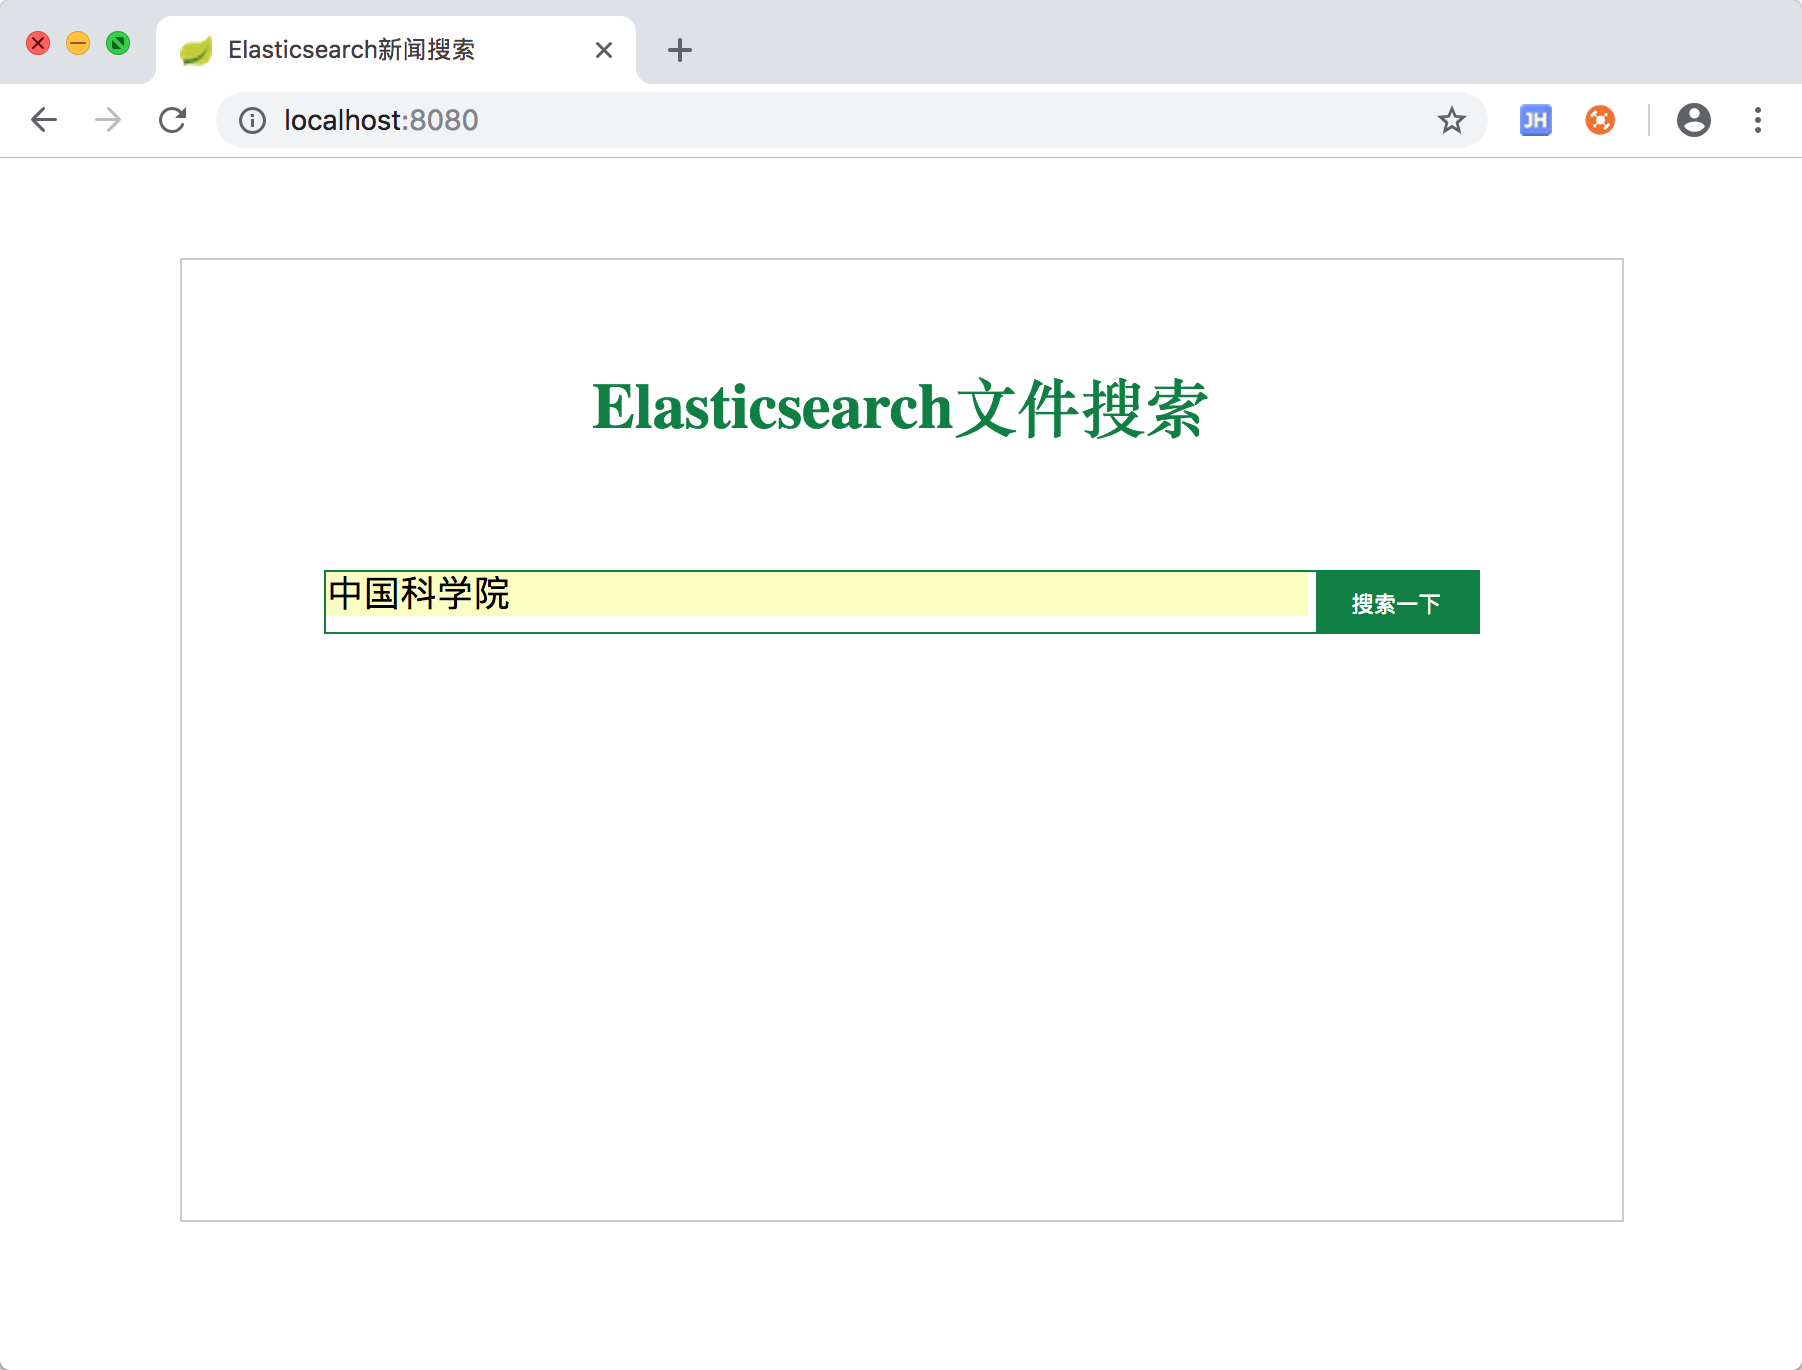
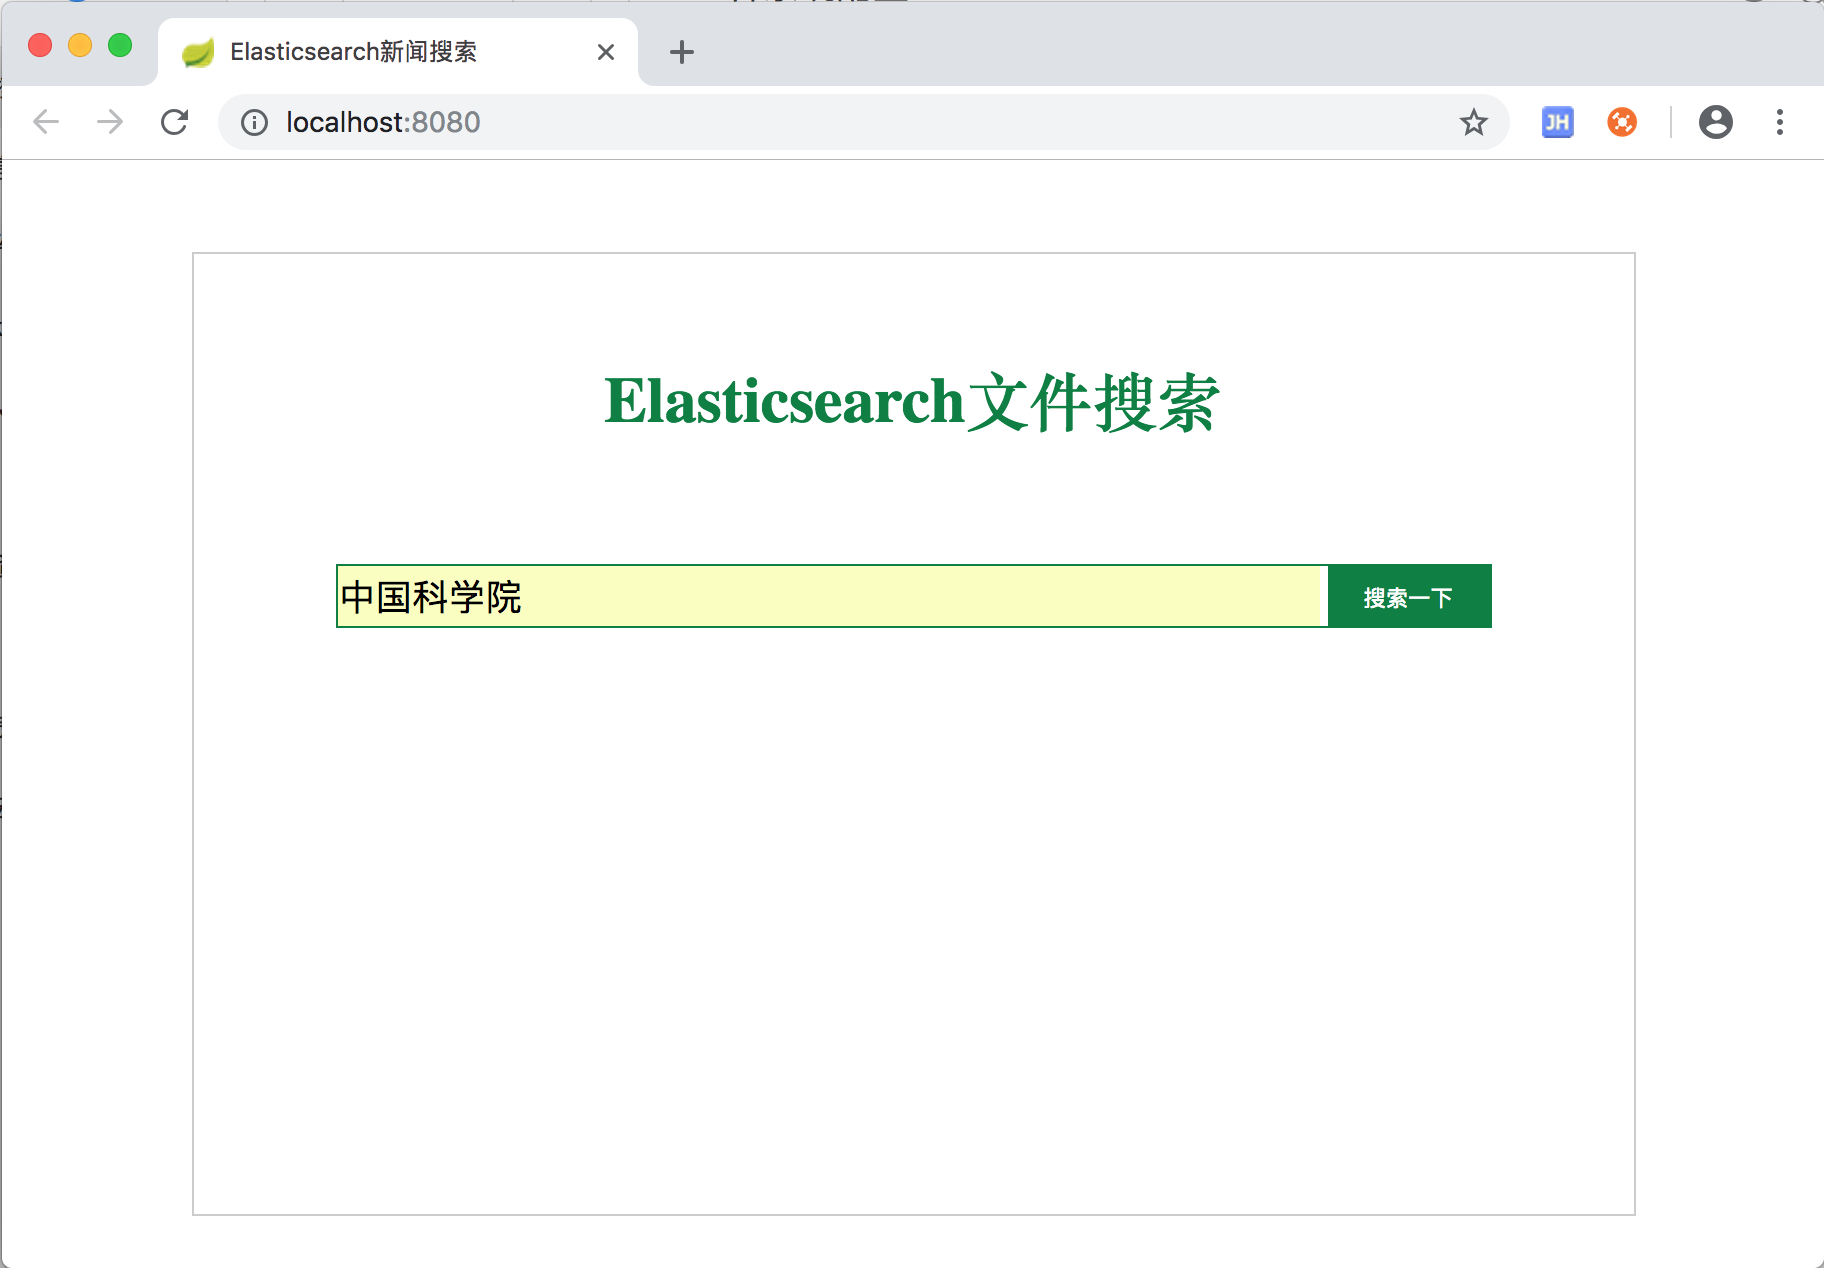
make it better

diff --git a/src/main/resources/static/css/index.css b/src/main/resources/static/css/index.css
@@ -25,7 +25,7 @@ body{
 
 
 .searchbox input[type="text"]{
-    height: 20px;
+    height: 28px;
     width: 85%;
     margin: 0;
     outline: none;
@@ -34,7 +34,11 @@ body{
     font-size: 18px;
 }
 
-
+input:-webkit-autofill {
+    background-color: #FFFFFF;
+    background-image: none;
+    color: #000;
+}
 
 .searchbox input[type="submit"]{
     height: 30px;
